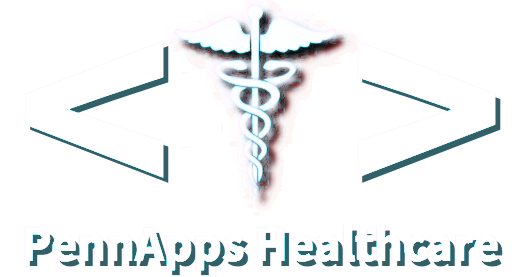
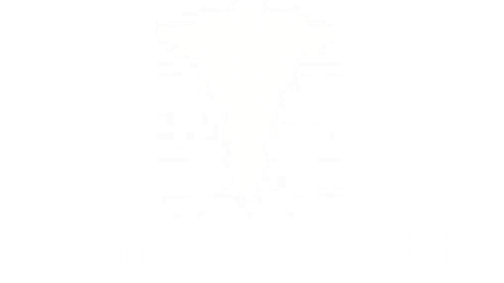
purple topbar png

diff --git a/index.html b/index.html
@@ -17,23 +17,24 @@
 </head>
 <body>
 	<div class="topbar">
-        <!--<img src = "topbar.png">-->
-		<!--<div class="spacer"></div>-->
+    <div class="spacer"></div>
+        <img src = "topbar.png">
+		<!--<div class="spacer"></div
         <h2 class="left"> &#60;</h2>
         <img src="medicine.png">
-        <!--
+        --><!--
 		<div class="container">
 			<h2> &#60; &#32; &#32; &#32; </h2><div class="big">+</div>
--->
+
 			<h2 class="right">&#62; </h2>
 			
-		<!--
+		
 		</div>
 		<div class="sym-top"></div>
 			<div class="symbol"></div>
 			<div class="sym-bot"></div>-->
-		<h1>PennApps Health</h1>
-		<!-- <h1>Bringing a Technology Revolution to the Healthcare World</h1>
+		<!--<h1>PennApps Health</h1>-->
+		<!-- <h1>Bringing a Technology Revolution to the Healthcare World</h1>-->
 <!--
         <h4>September 12-14, 2014 - perelman.hmet@gmail.com</h4> -->
 	</div>    
@@ -108,8 +109,8 @@ over 3 years. I won&#39t miss this one, and neither should you.&#34
   <td>Doe</td>      
   <td>80</td>
 </tr>
-</table>-->
-    
+</table>
+    -->
     <img style="z-index:-1; position: relative; top: -35px;
 
     margin-left: 0%;

diff --git a/health.css b/health.css
@@ -1,6 +1,6 @@
 .topbar {
 	background-color: #A653CF;
-	height: 300px;
+	height: 350px;
 	text-align: center;
 	width: 100%;
 }
@@ -16,13 +16,13 @@ h1 {
 
 .left {
 	float: left;
-	padding-left: 15px;
+	padding-left: 0px;
 	left: 180px;
 }
 .right {
 	float: right;
-	padding-right: 5px;
-	right: 180px;
+	padding-right: 0px;
+	right: 190px;
 }
 
 h2 {
@@ -103,7 +103,7 @@ img {
 }
 
 .spacer {
-	height: 75px;
+	height: 40px;
 }
 
 body {
